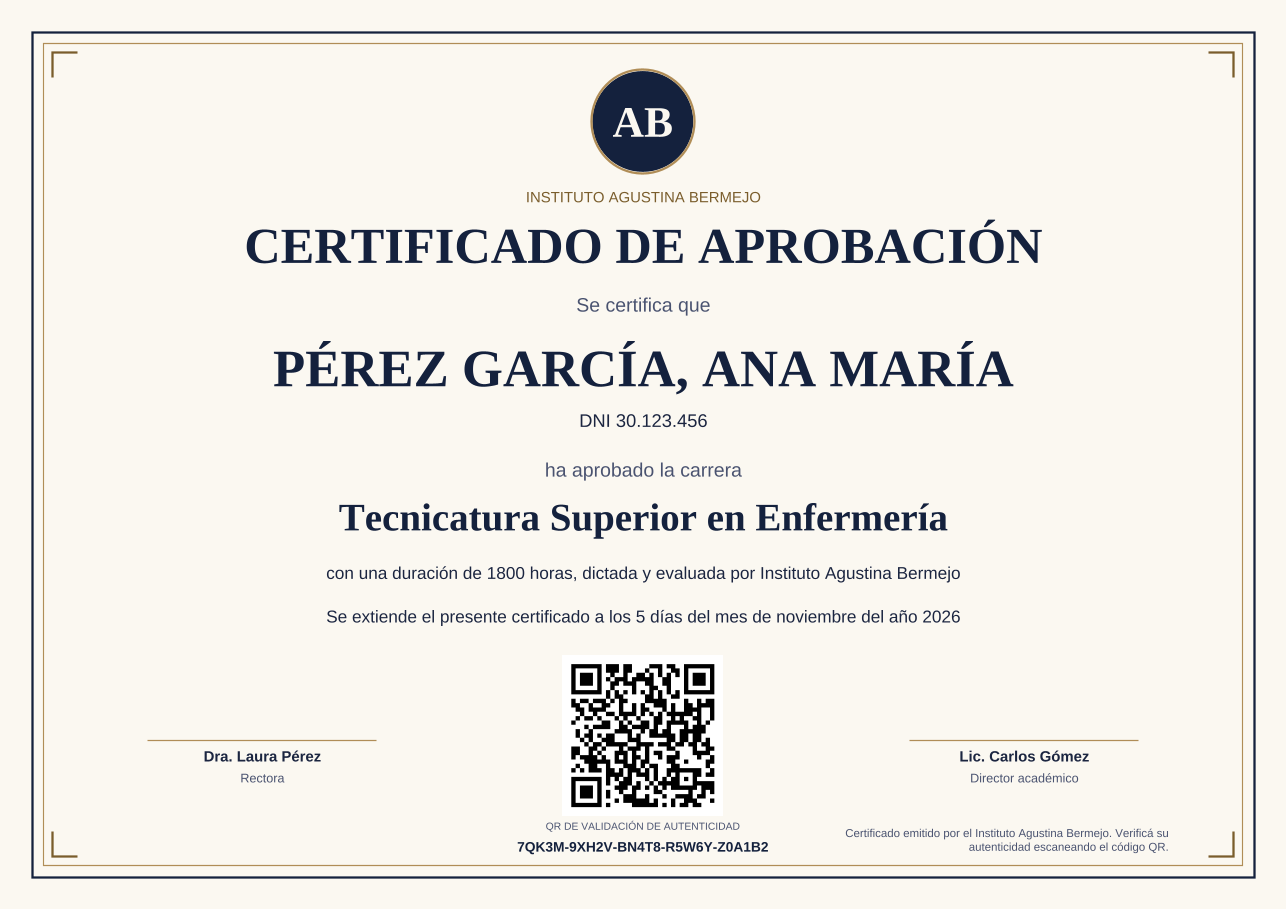
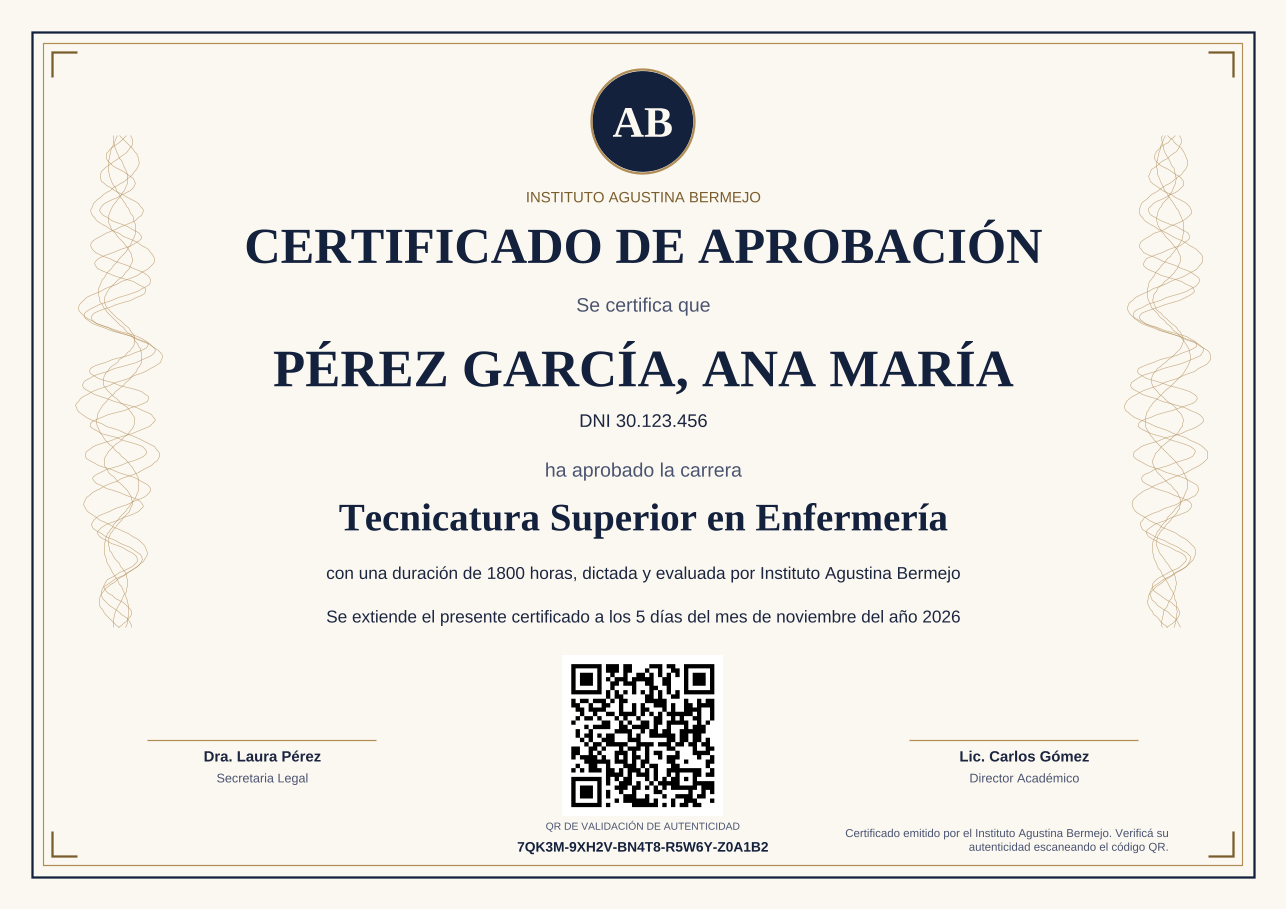
feat(certificate): firuletes guilloché, cargos por defecto y cajas centrales
Por decisión de Gabriel: bandas guilloché doradas vectoriales detrás del texto, cargos
de firmantes Secretaria Legal y Director Académico por defecto, y sin sello. Las líneas
a ancho completo se acotan al centro para no cruzar las bandas.

Claude-Session: https://claude.ai/code/session_01JBHG1DT9SnUkSqcCuXHvLz

diff --git a/backend/src/test/java/com/red_escuela/backend/graduation/certificate/engine/ApprovalCertificateDesignTest.java b/backend/src/test/java/com/red_escuela/backend/graduation/certificate/engine/ApprovalCertificateDesignTest.java
@@ -56,7 +56,7 @@ class ApprovalCertificateDesignTest {
     private static CertificateSnapshot snapshot(String holder, String program, String institution, String signerName, String signerTitle) {
         return new CertificateSnapshot(holder, "DNI", "30123456", "la carrera", program, "UNDERGRADUATE", 1800,
                 LocalDate.of(2026, 7, 15), LocalDate.of(2026, 11, 5), institution,
-                List.of(new SignatorySnapshot(signerName, signerTitle), new SignatorySnapshot("Lic. Carlos Gómez", "Director académico")),
+                List.of(new SignatorySnapshot(signerName, signerTitle), new SignatorySnapshot("Lic. Carlos Gómez", "Director Académico")),
                 BuiltInCertificateTemplate.BUILT_IN_V1);
     }
 
@@ -177,7 +177,7 @@ class ApprovalCertificateDesignTest {
     @ParameterizedTest(name = "{0} stays inside its box with regular data")
     @MethodSource("allMarkers")
     void markerStaysInsideItsBoxWithRegularData(Marker marker) throws IOException {
-        assertMarkerInsideItsBox(marker, snapshot(SHORT_HOLDER, SHORT_PROGRAM, "Instituto Agustina Bermejo", "Dra. Laura Pérez", "Rectora"));
+        assertMarkerInsideItsBox(marker, snapshot(SHORT_HOLDER, SHORT_PROGRAM, "Instituto Agustina Bermejo", "Dra. Laura Pérez", "Secretaria Legal"));
     }
 
     @ParameterizedTest(name = "{0} stays inside its box with very long data")
@@ -190,7 +190,7 @@ class ApprovalCertificateDesignTest {
 
     @Test
     void registrationNumberStaysInsideItsBox() throws IOException {
-        CertificateSnapshot snapshot = snapshot(SHORT_HOLDER, SHORT_PROGRAM, "Instituto Agustina Bermejo", "Dra. Laura Pérez", "Rectora");
+        CertificateSnapshot snapshot = snapshot(SHORT_HOLDER, SHORT_PROGRAM, "Instituto Agustina Bermejo", "Dra. Laura Pérez", "Secretaria Legal");
         byte[] pdf = renderer.render(template, snapshot, CODE, URL, new CertificateAssets(null, List.of(), "0001234/2026"));
         String expected = "REG. DE CERTIF. N°: 0001234/2026";
 
@@ -203,14 +203,14 @@ class ApprovalCertificateDesignTest {
 
     @Test
     void registrationNumberIsOmittedWhenAbsent() throws IOException {
-        byte[] pdf = pdfOf(snapshot(SHORT_HOLDER, SHORT_PROGRAM, "Instituto Agustina Bermejo", "Dra. Laura Pérez", "Rectora"));
+        byte[] pdf = pdfOf(snapshot(SHORT_HOLDER, SHORT_PROGRAM, "Instituto Agustina Bermejo", "Dra. Laura Pérez", "Secretaria Legal"));
 
         assertThat(wordsOf(pdf)).noneMatch(word -> word.text().contains("REG."));
     }
 
     @Test
     void veryLongHolderNameIsWrappedOrShrunkWithoutLeavingItsBox() throws Exception {
-        byte[] pdf = pdfOf(snapshot(LONG_HOLDER, SHORT_PROGRAM, "Instituto Agustina Bermejo", "Dra. Laura Pérez", "Rectora"));
+        byte[] pdf = pdfOf(snapshot(LONG_HOLDER, SHORT_PROGRAM, "Instituto Agustina Bermejo", "Dra. Laura Pérez", "Secretaria Legal"));
 
         List<Word> lines = linesNear(wordsOf(pdf), ApprovalCertificateDesign.HOLDER, LONG_HOLDER);
 
@@ -220,7 +220,7 @@ class ApprovalCertificateDesignTest {
 
     @Test
     void qrStaysVectorialAndDecodesToVerificationUrl() throws Exception {
-        byte[] pdf = pdfOf(snapshot(SHORT_HOLDER, SHORT_PROGRAM, "Instituto Agustina Bermejo", "Dra. Laura Pérez", "Rectora"));
+        byte[] pdf = pdfOf(snapshot(SHORT_HOLDER, SHORT_PROGRAM, "Instituto Agustina Bermejo", "Dra. Laura Pérez", "Secretaria Legal"));
 
         try (PDDocument document = Loader.loadPDF(pdf)) {
             assertThat(document.getPage(0).getResources().getXObjectNames()).isEmpty();
@@ -233,7 +233,7 @@ class ApprovalCertificateDesignTest {
 
     @Test
     void qrIsPaintedInsideItsBox() throws Exception {
-        byte[] pdf = pdfOf(snapshot(SHORT_HOLDER, SHORT_PROGRAM, "Instituto Agustina Bermejo", "Dra. Laura Pérez", "Rectora"));
+        byte[] pdf = pdfOf(snapshot(SHORT_HOLDER, SHORT_PROGRAM, "Instituto Agustina Bermejo", "Dra. Laura Pérez", "Secretaria Legal"));
 
         try (PDDocument document = Loader.loadPDF(pdf)) {
             BufferedImage image = new PDFRenderer(document).renderImageWithDPI(0, 96);
@@ -268,7 +268,7 @@ class ApprovalCertificateDesignTest {
                 return new boolean[][]{{false}};
             }
         });
-        byte[] pdf = withoutQr.render(template, snapshot(SHORT_HOLDER, SHORT_PROGRAM, "Instituto Agustina Bermejo", "Dra. Laura Pérez", "Rectora"), CODE, URL);
+        byte[] pdf = withoutQr.render(template, snapshot(SHORT_HOLDER, SHORT_PROGRAM, "Instituto Agustina Bermejo", "Dra. Laura Pérez", "Secretaria Legal"), CODE, URL);
 
         try (PDDocument document = Loader.loadPDF(pdf)) {
             BufferedImage image = new PDFRenderer(document).renderImageWithDPI(0, 300);
@@ -324,5 +324,74 @@ class ApprovalCertificateDesignTest {
         for (String line : fitted.lines()) {
             assertThat(TextFitter.width(font, fitted.fontSize(), line)).isLessThanOrEqualTo(100);
         }
+    }
+
+    private static boolean intersects(Rect first, Rect second) {
+        return first.x() < second.x() + second.width() && second.x() < first.x() + first.width()
+                && first.y() < second.y() + second.height() && second.y() < first.y() + first.height();
+    }
+
+    @Test
+    void guillocheLinesStayInsideTheirBandBoxes() {
+        for (Rect band : List.of(GuillocheBand.LEFT, GuillocheBand.RIGHT)) {
+            for (List<float[]> line : GuillocheBand.polylines(band)) {
+                assertThat(line).allSatisfy(point -> {
+                    assertThat(point[0]).isBetween(band.x(), band.x() + band.width());
+                    assertThat(point[1]).isBetween(band.y(), band.y() + band.height());
+                });
+            }
+        }
+        assertThat(GuillocheBand.LEFT.x()).isEqualTo(58);
+        assertThat(GuillocheBand.LEFT.x() + GuillocheBand.LEFT.width()).isEqualTo(150);
+        assertThat(GuillocheBand.RIGHT.x() + GuillocheBand.RIGHT.width()).isEqualTo(1123 - 58);
+        assertThat(GuillocheBand.LEFT.y()).isEqualTo(118);
+        assertThat(GuillocheBand.LEFT.y() + GuillocheBand.LEFT.height()).isEqualTo(548);
+    }
+
+    @Test
+    void guillocheBandsDoNotCrossTextQrOrLogo() throws IOException {
+        List<Rect> reserved = List.of(ApprovalCertificateDesign.LOGO, ApprovalCertificateDesign.HOLDER,
+                ApprovalCertificateDesign.DOCUMENT, ApprovalCertificateDesign.PROGRAM, ApprovalCertificateDesign.QR);
+        for (Rect band : List.of(GuillocheBand.LEFT, GuillocheBand.RIGHT)) {
+            assertThat(reserved).noneMatch(box -> intersects(band, box));
+        }
+        for (CertificateSnapshot snapshot : List.of(
+                snapshot(SHORT_HOLDER, SHORT_PROGRAM, "Instituto Agustina Bermejo", "Dra. Laura Pérez", "Secretaria Legal"),
+                snapshot(LONG_HOLDER, LONG_PROGRAM, "Instituto Superior de Formación Técnica y Profesional Agustina Bermejo de Ciencias de la Salud",
+                        "Dra. María Laura Fernández de la Cruz y Alvarado", "Secretaria Legal"))) {
+            for (Word word : wordsOf(pdfOf(snapshot))) {
+                Rect text = new Rect(word.left(), word.top(), word.right() - word.left(), word.bottom() - word.top());
+                if (text.y() >= 118 && text.y() <= 548) {
+                    assertThat(intersects(GuillocheBand.LEFT, text)).as(word.text()).isFalse();
+                    assertThat(intersects(GuillocheBand.RIGHT, text)).as(word.text()).isFalse();
+                }
+            }
+        }
+    }
+
+    @Test
+    void guillocheBandsArePaintedOnBothSidesAndNowhereElseOutsideTextAndFrames() throws IOException {
+        byte[] pdf = pdfOf(snapshot(SHORT_HOLDER, SHORT_PROGRAM, "Instituto Agustina Bermejo", "Dra. Laura Pérez", "Secretaria Legal"));
+        try (PDDocument document = Loader.loadPDF(pdf)) {
+            BufferedImage image = new PDFRenderer(document).renderImageWithDPI(0, 96);
+            assertThat(inkedPixels(image, GuillocheBand.LEFT)).isGreaterThan(400);
+            assertThat(inkedPixels(image, GuillocheBand.RIGHT)).isGreaterThan(400);
+            assertThat(inkedPixels(image, new Rect(160, 130, 40, 150))).isZero();
+        }
+    }
+
+    private static int inkedPixels(BufferedImage image, Rect area) {
+        int count = 0;
+        for (int y = (int) area.y(); y < area.y() + area.height(); y++) {
+            for (int x = (int) area.x(); x < area.x() + area.width(); x++) {
+                int rgb = image.getRGB(x, y) & 0xFFFFFF;
+                int red = (rgb >> 16) & 0xFF;
+                int blue = rgb & 0xFF;
+                if (red - blue > 40) {
+                    count++;
+                }
+            }
+        }
+        return count;
     }
 }

diff --git a/backend/src/main/java/com/red_escuela/backend/graduation/certificate/engine/ApprovalCertificateDesign.java b/backend/src/main/java/com/red_escuela/backend/graduation/certificate/engine/ApprovalCertificateDesign.java
@@ -5,6 +5,7 @@ import org.apache.pdfbox.pdmodel.PDPageContentStream;
 import org.apache.pdfbox.pdmodel.common.PDRectangle;
 import org.apache.pdfbox.pdmodel.font.PDFont;
 import org.apache.pdfbox.pdmodel.graphics.image.PDImageXObject;
+import org.apache.pdfbox.pdmodel.graphics.state.PDExtendedGraphicsState;
 
 import java.awt.Color;
 import java.io.IOException;
@@ -16,15 +17,15 @@ public class ApprovalCertificateDesign {
     public static final float PX = 0.75f;
 
     public static final Rect LOGO = new Rect(515, 60, 92, 92);
-    public static final Rect INSTITUTION = new Rect(0, 162, 1123, 20);
-    public static final Rect TITLE = new Rect(0, 184, 1123, 60);
-    public static final Rect CERTIFIES = new Rect(0, 252, 1123, 28);
+    public static final Rect INSTITUTION = new Rect(160, 162, 803, 20);
+    public static final Rect TITLE = new Rect(160, 184, 803, 60);
+    public static final Rect CERTIFIES = new Rect(160, 252, 803, 28);
     public static final Rect HOLDER = new Rect(180, 292, 763, 58);
     public static final Rect DOCUMENT = new Rect(431, 354, 261, 26);
-    public static final Rect APPROVED = new Rect(0, 396, 1123, 28);
+    public static final Rect APPROVED = new Rect(160, 396, 803, 28);
     public static final Rect PROGRAM = new Rect(150, 428, 823, 46);
-    public static final Rect HOURS_LINE = new Rect(0, 488, 1123, 24);
-    public static final Rect DATE_LINE = new Rect(0, 526, 1123, 24);
+    public static final Rect HOURS_LINE = new Rect(160, 488, 803, 24);
+    public static final Rect DATE_LINE = new Rect(160, 526, 803, 24);
     public static final Rect SIGNATORY_LEFT = new Rect(104, 596, 250, 92);
     public static final Rect SIGNATORY_RIGHT = new Rect(769, 596, 250, 92);
     public static final Rect QR = new Rect(491, 572, 140, 140);
@@ -94,6 +95,7 @@ public class ApprovalCertificateDesign {
         float height = page.getHeight();
         paper(content, page);
         frames(content, page);
+        guilloche(content, height);
         logo(document, content, fonts, height, assets);
         text(content, height, fonts.sans(), INSTITUTION, "INSTITUTO AGUSTINA BERMEJO", 13, 9, GOLD_DARK, Align.CENTER);
         text(content, height, fonts.serifBold(), TITLE, HEADLINE, 44, 24, NAVY, Align.CENTER);
@@ -143,6 +145,30 @@ public class ApprovalCertificateDesign {
         corner(content, right, top, arm, -1, -1);
         corner(content, left, bottom, arm, 1, 1);
         corner(content, right, bottom, arm, -1, 1);
+    }
+
+    private void guilloche(PDPageContentStream content, float pageHeight) throws IOException {
+        PDExtendedGraphicsState translucent = new PDExtendedGraphicsState();
+        translucent.setStrokingAlphaConstant(0.65f);
+        content.saveGraphicsState();
+        content.setGraphicsStateParameters(translucent);
+        content.setStrokingColor(GOLD);
+        content.setLineWidth(0.6f * PX);
+        for (Rect band : List.of(GuillocheBand.LEFT, GuillocheBand.RIGHT)) {
+            for (List<float[]> line : GuillocheBand.polylines(band)) {
+                for (int i = 0; i < line.size(); i++) {
+                    float x = line.get(i)[0] * PX;
+                    float y = pageHeight - line.get(i)[1] * PX;
+                    if (i == 0) {
+                        content.moveTo(x, y);
+                    } else {
+                        content.lineTo(x, y);
+                    }
+                }
+                content.stroke();
+            }
+        }
+        content.restoreGraphicsState();
     }
 
     private void corner(PDPageContentStream content, float x, float y, float arm, int dx, int dy) throws IOException {

diff --git a/backend/src/main/java/com/red_escuela/backend/graduation/certificate/source/GraduationSnapshotFactory.java b/backend/src/main/java/com/red_escuela/backend/graduation/certificate/source/GraduationSnapshotFactory.java
@@ -19,13 +19,19 @@ public class GraduationSnapshotFactory {
     private final Clock clock;
     private final String signerName;
     private final String signerTitle;
+    private final String secondSignerName;
+    private final String secondSignerTitle;
 
     public GraduationSnapshotFactory(Clock clock,
                                      @Value("${app.certificate.default-signer-name}") String signerName,
-                                     @Value("${app.certificate.default-signer-title}") String signerTitle) {
+                                     @Value("${app.certificate.default-signer-title}") String signerTitle,
+                                     @Value("${app.certificate.second-signer-name}") String secondSignerName,
+                                     @Value("${app.certificate.second-signer-title}") String secondSignerTitle) {
         this.clock = clock;
         this.signerName = signerName;
         this.signerTitle = signerTitle;
+        this.secondSignerName = secondSignerName;
+        this.secondSignerTitle = secondSignerTitle;
     }
 
     public CertificateSnapshot create(Student student, String titleKind, String titleName, String programLevel,
@@ -42,7 +48,7 @@ public class GraduationSnapshotFactory {
                 graduationDate,
                 LocalDate.now(clock),
                 student.getInstitution().getName(),
-                List.of(new SignatorySnapshot(signerName, signerTitle)),
+                List.of(new SignatorySnapshot(signerName, signerTitle), new SignatorySnapshot(secondSignerName, secondSignerTitle)),
                 BuiltInCertificateTemplate.BUILT_IN_V1);
     }
 }

diff --git a/backend/src/main/java/com/red_escuela/backend/graduation/certificate/engine/GuillocheBand.java b/backend/src/main/java/com/red_escuela/backend/graduation/certificate/engine/GuillocheBand.java
@@ -1,0 +1,34 @@
+package com.red_escuela.backend.graduation.certificate.engine;
+
+import java.util.ArrayList;
+import java.util.List;
+
+public final class GuillocheBand {
+
+    public static final Rect LEFT = new Rect(58, 118, 92, 430);
+    public static final Rect RIGHT = new Rect(1123 - 58 - 92, 118, 92, 430);
+
+    private static final float[] AMPLITUDES = {38, 32, 26, 20, 14};
+    private static final float[] PERIODS = {86, 61, 47, 113, 71};
+    private static final float[] PHASES = {0f, 1.1f, 2.3f, 3.4f, 4.6f};
+    private static final float STEP = 2;
+
+    private GuillocheBand() {
+    }
+
+    public static List<List<float[]>> polylines(Rect box) {
+        float centerX = box.x() + box.width() / 2;
+        List<List<float[]>> lines = new ArrayList<>();
+        for (int wave = 0; wave < AMPLITUDES.length; wave++) {
+            List<float[]> points = new ArrayList<>();
+            for (float y = 0; y <= box.height(); y += STEP) {
+                double t = y / box.height();
+                double envelope = 0.35 + 0.65 * Math.sin(Math.PI * t);
+                double offset = AMPLITUDES[wave] * envelope * Math.sin(2 * Math.PI * y / PERIODS[wave] + PHASES[wave]);
+                points.add(new float[]{(float) (centerX + offset), box.y() + y});
+            }
+            lines.add(points);
+        }
+        return lines;
+    }
+}
